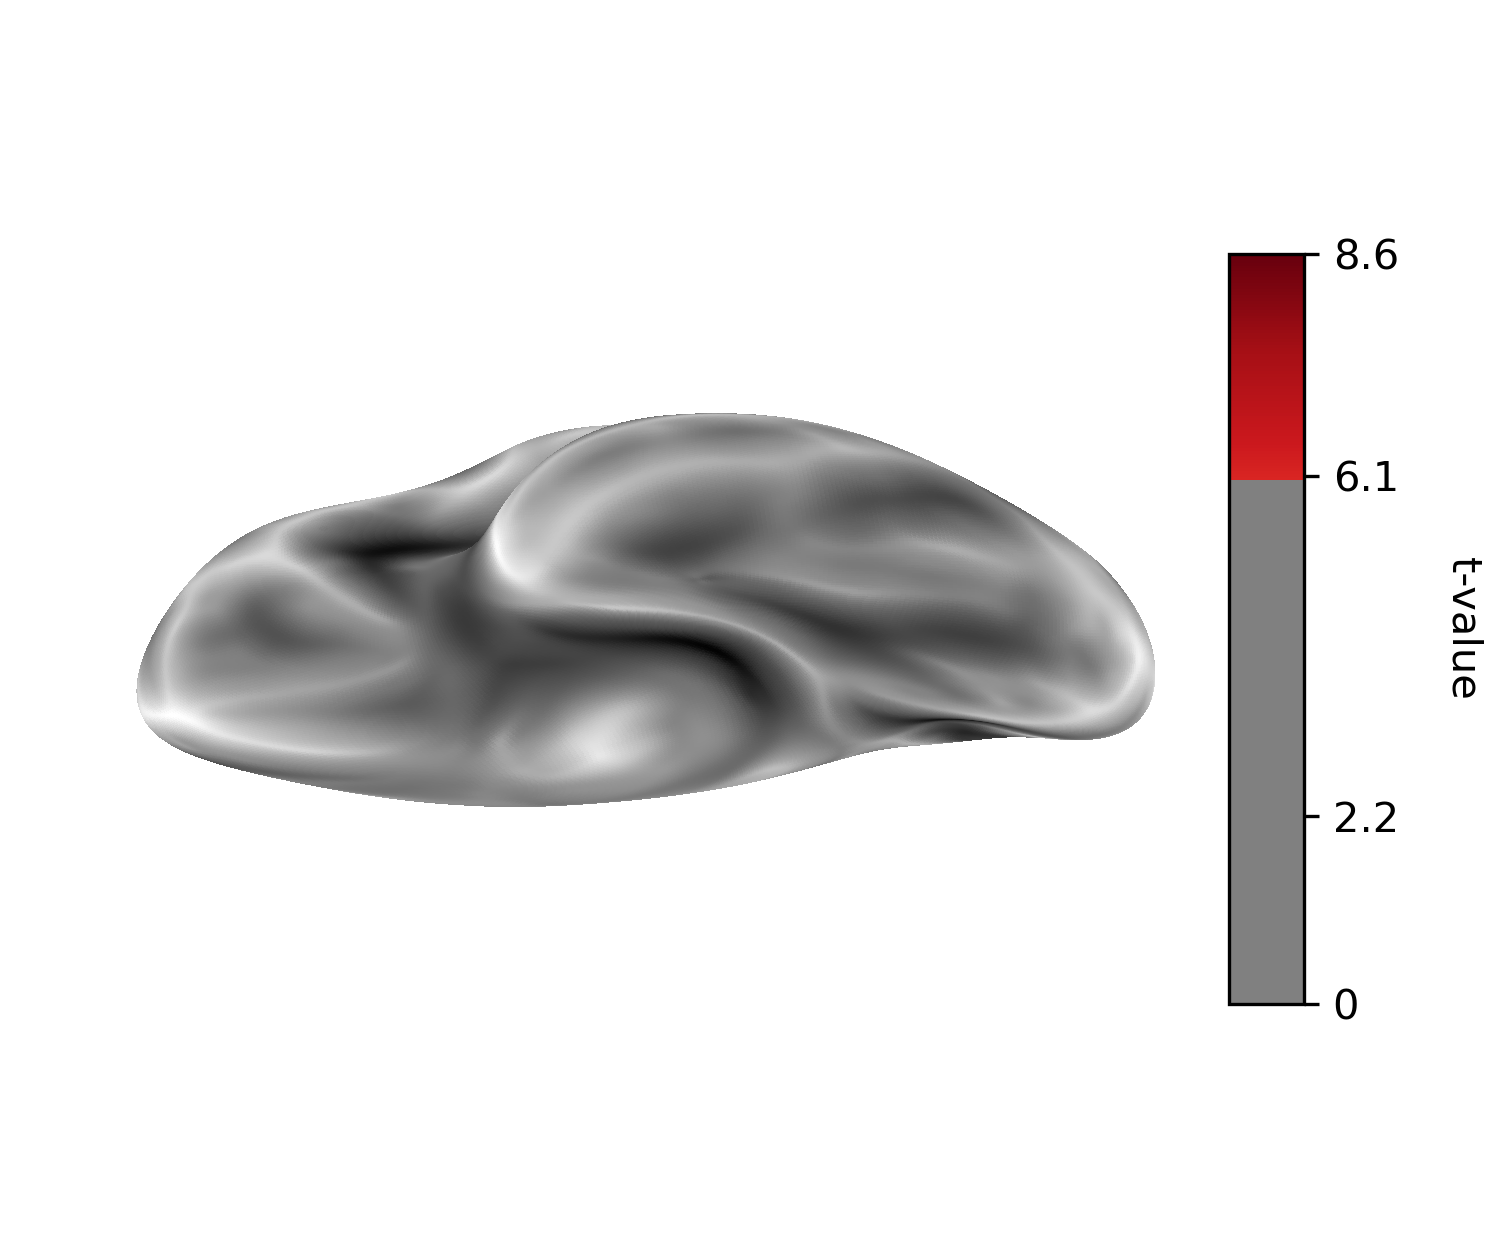
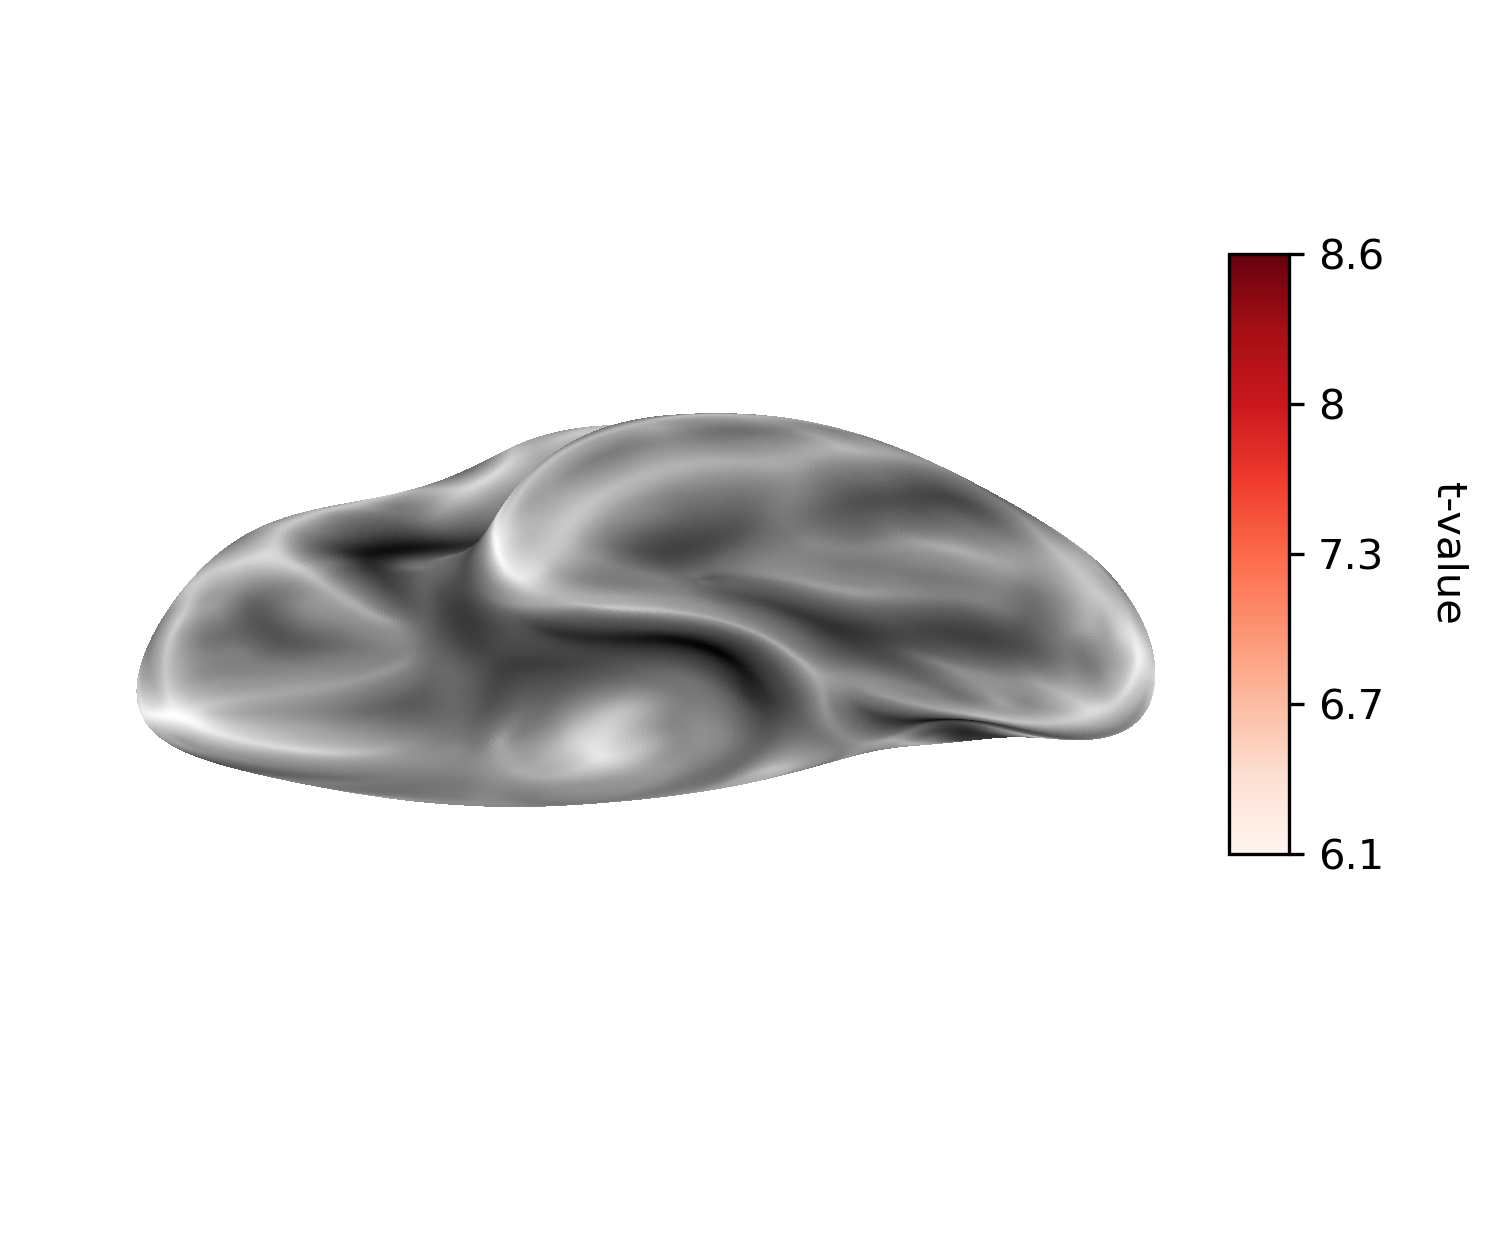
surf update

diff --git a/code/plot_surfaces.py b/code/plot_surfaces.py
@@ -75,6 +75,14 @@ class PlotSurfaces:
             cbar = fig.axes[-1]  # Get the colorbar axis
             cbar.set_ylabel('t-value', rotation=270, labelpad=20)
 
+            # Adjust colorbar height to make it less tall
+            pos = cbar.get_position()
+            cbar.set_position([pos.x0, pos.y0 + pos.height * 0.2, pos.width, pos.height * 0.8])
+
+            # Set ticks to be equally distributed
+            vmin, vmax = cbar.get_ylim()
+            cbar.set_yticks(np.linspace(vmin, vmax, 5))
+
             # Make background transparent
             fig.patch.set_alpha(0)
             for ax in fig.axes:
